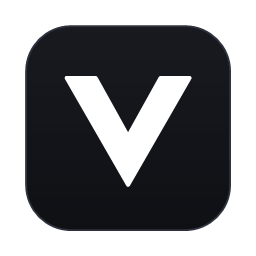
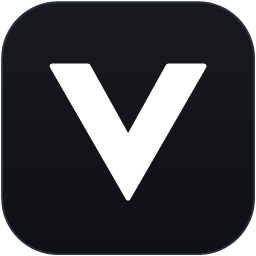
fix(assets): 恢复任务栏与托盘小图标满格比例，优化托盘原生小图标加载，严格保持桌面图标大小不变

diff --git a/src/platform/tray.rs b/src/platform/tray.rs
@@ -338,11 +338,12 @@ fn run_tray_loop(
     };
     use windows_sys::Win32::UI::WindowsAndMessaging::{
         AppendMenuW, CreatePopupMenu, CreateWindowExW, DefWindowProcW, DestroyMenu, DestroyWindow,
-        DispatchMessageW, GetCursorPos, GetMessageW, LoadIconW, PostMessageW, PostQuitMessage,
-        RegisterClassW, RegisterWindowMessageW, SetForegroundWindow, TrackPopupMenu,
-        TranslateMessage, IDI_APPLICATION, MF_SEPARATOR, MF_STRING, MSG, TPM_RETURNCMD,
-        TPM_RIGHTBUTTON, WM_CLOSE, WM_DESTROY, WM_LBUTTONDBLCLK, WM_LBUTTONUP, WM_RBUTTONUP,
-        WM_USER, WNDCLASSW, WS_OVERLAPPED,
+        DispatchMessageW, GetCursorPos, GetMessageW, GetSystemMetrics, HICON, IMAGE_ICON,
+        LoadIconW, LoadImageW, LR_DEFAULTCOLOR, LR_SHARED, PostMessageW, PostQuitMessage,
+        RegisterClassW, RegisterWindowMessageW, SetForegroundWindow, SM_CXSMICON, SM_CYSMICON,
+        TrackPopupMenu, TranslateMessage, IDI_APPLICATION, MF_SEPARATOR, MF_STRING, MSG,
+        TPM_RETURNCMD, TPM_RIGHTBUTTON, WM_CLOSE, WM_DESTROY, WM_LBUTTONDBLCLK, WM_LBUTTONUP,
+        WM_RBUTTONUP, WM_USER, WNDCLASSW, WS_OVERLAPPED,
     };
 
     const WM_TRAY_CALLBACK: u32 = WM_USER + 100;
@@ -626,11 +627,25 @@ fn run_tray_loop(
     });
 
     let h_icon = unsafe {
-        let icon = LoadIconW(h_instance, 1 as _);
+        let cx = GetSystemMetrics(SM_CXSMICON);
+        let cy = GetSystemMetrics(SM_CYSMICON);
+        let icon = LoadImageW(
+            h_instance,
+            1 as _,
+            IMAGE_ICON,
+            cx,
+            cy,
+            LR_DEFAULTCOLOR | LR_SHARED,
+        );
         if icon.is_null() {
-            LoadIconW(std::ptr::null_mut(), IDI_APPLICATION)
+            let fallback = LoadIconW(h_instance, 1 as _);
+            if fallback.is_null() {
+                LoadIconW(std::ptr::null_mut(), IDI_APPLICATION)
+            } else {
+                fallback
+            }
         } else {
-            icon
+            icon as HICON
         }
     };
 
